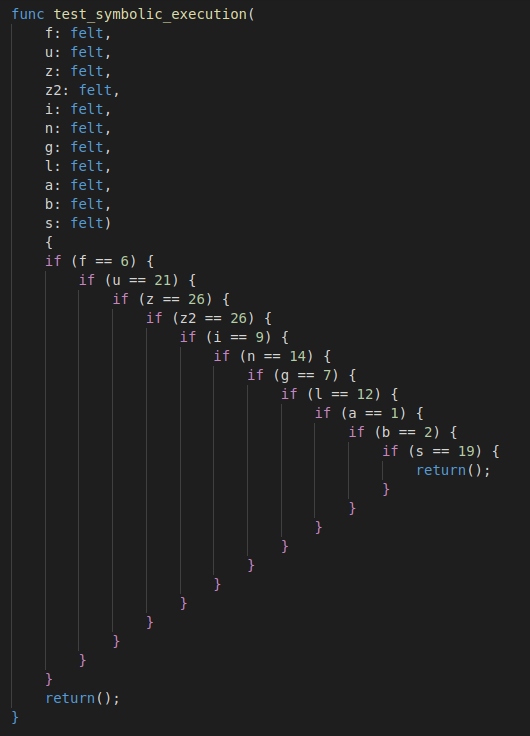
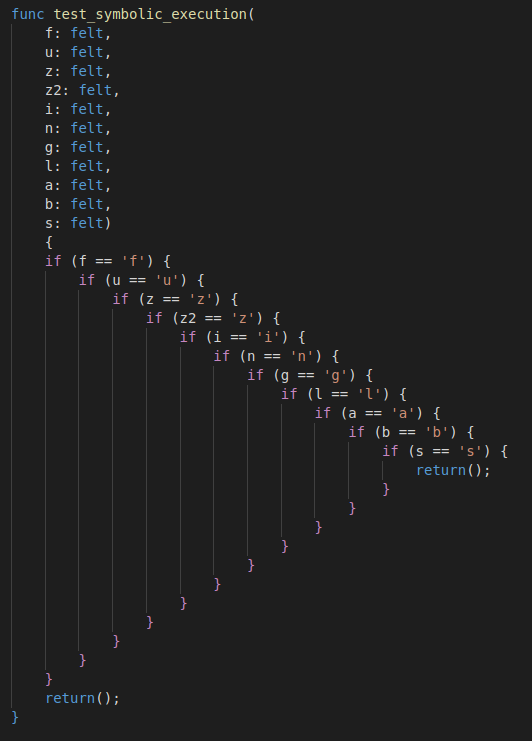
Update documentation

diff --git a/README.md b/README.md
@@ -22,33 +22,12 @@ pip install .
 thoth -h
 ```
 
-## Disassemble the contract's compilation artifact (JSON)
-
-#### Remote contrat deployed on starknet (mainnet/goerli)
-
-``` python
-thoth remote --address 0x0323D18E2401DDe9aFFE1908e9863cbfE523791690F32a2ff6aa66959841D31D --network mainnet -b
-```
-
-#### Local contract compiled locally (JSON file)
-
-``` python
-thoth local tests/json_files/cairo_array_sum.json -b
-# To get a pretty colored version:
-thoth local tests/json_files/cairo_array_sum.json -b -color
-# To get a verbose version with more details about decoded bytecodes:
-thoth local tests/json_files/cairo_array_sum.json -vvv
-```
-
-<p align="center">
-	<img src="/images/thoth_disas_color.png"/>
-</p>
-
-
 ## Decompile the contract's compilation artifact (JSON)
 
-
 ``` python
+# Remote contrat deployed on starknet (mainnet/goerli)
+thoth remote --address 0x0323D18E2401DDe9aFFE1908e9863cbfE523791690F32a2ff6aa66959841D31D --network mainnet -d
+# Local contract compiled locally (JSON file)
 thoth local tests/json_files/cairo_test_addition_if.json -d
 ```
 
@@ -83,7 +62,6 @@ The static analysis is performed using *analyzers* which can be either informati
 |**Integer overflow**|`int_overflow`|Detect direct integer overflow/underflow|High (direct) / Medium (indirect)|Medium|Security|
 |**Function naming**|`function_naming`|Detect functions names that are not in snake case|Informational|High|Security|
 |**Variable naming**|`variable_naming`|Detect variables names that are not in snake case|Informational|High|Security|
-
 
 #### Run all the analyzers
 ``` python
@@ -128,23 +106,6 @@ A more complexe callgraph:
 	<img src="/images/starknet_get_full_contract_l2_dai_bridge.gv.png"/>
 </p>
 
-
-## Print the contract's control-flow graph (CFG)
-
-``` python
-thoth local tests/json_files/cairo_double_function_and_if.json -cfg -view True
-# For a specific function:
-thoth local tests/json_files/cairo_double_function_and_if.json -cfg -view True -function "__main__.main"
-# For a specific output format (pdf/svg/png):
-thoth local tests/json_files/cairo_double_function_and_if.json -cfg -view True -format png
-```
-The output file (pdf/svg/png) and the dot file are inside the `output-cfg` folder.
-
-<p align="center">
-	<img src="/images/cairo_double_function_and_if_cfg.png"/>
-</p>
-
-
 ## Print the contract's data-flow graph (DFG)
 
 ``` python
@@ -162,6 +123,38 @@ The output file (pdf/svg/png) and the dot file are inside the `output-dfg` folde
 
 <p align="center">
 	<img src="/images/thoth_dfg_tainting.png"/>
+</p>
+
+## Disassemble the contract's compilation artifact (JSON)
+
+``` python
+# Remote contrat deployed on starknet (mainnet/goerli)
+thoth remote --address 0x0323D18E2401DDe9aFFE1908e9863cbfE523791690F32a2ff6aa66959841D31D --network mainnet -b
+# Local contract compiled locally (JSON file)
+thoth local tests/json_files/cairo_array_sum.json -b
+# To get a pretty colored version:
+thoth local tests/json_files/cairo_array_sum.json -b -color
+# To get a verbose version with more details about decoded bytecodes:
+thoth local tests/json_files/cairo_array_sum.json -vvv
+```
+
+<p align="center">
+	<img src="/images/thoth_disas_color.png"/>
+</p>
+
+## Print the contract's control-flow graph (CFG)
+
+``` python
+thoth local tests/json_files/cairo_double_function_and_if.json -cfg -view True
+# For a specific function:
+thoth local tests/json_files/cairo_double_function_and_if.json -cfg -view True -function "__main__.main"
+# For a specific output format (pdf/svg/png):
+thoth local tests/json_files/cairo_double_function_and_if.json -cfg -view True -format png
+```
+The output file (pdf/svg/png) and the dot file are inside the `output-cfg` folder.
+
+<p align="center">
+	<img src="/images/cairo_double_function_and_if_cfg.png"/>
 </p>
 
 ## Use the symbolic execution 
@@ -182,8 +175,21 @@ thoth local cairo_test_symbolic_execution_3.json --symbolic -function __main__.t
 	<b> source code </b></br>
 	<img src="/images/thoth_symbolic_execution_source.png"/></br>
 	<b> Solving the variables arguments values with the symbolic execution </b></br>
-	<img src="/images/thoth_symbolic_execution.png"/></br>
 </p>
+
+```
+v0_f: 102
+v10_s: 115
+v1_u: 117
+v2_z: 122
+v3_z2: 122
+v4_i: 105
+v5_n: 110
+v6_g: 103
+v7_l: 108
+v8_a: 97
+v9_b: 98
+```
 
 You can replace a variable value by another using the `-variable` flag : 
 
